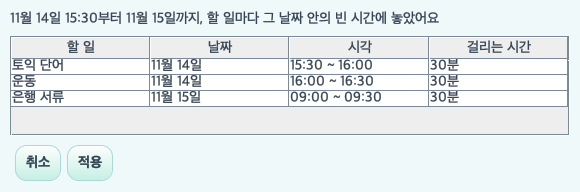
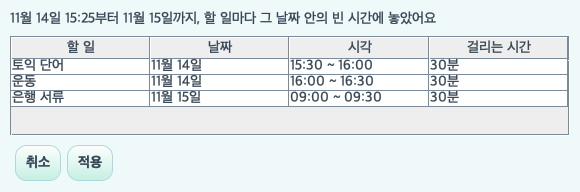
feat(prototype): 시작 시각, 걸리는 시간, 기본 시작 시각, 자동 배치를 5분 단위로(D-38) (#71)

Changed region(s): [[0.1241, 0.0625, 0.7759, 0.125]]

diff --git a/prototype/src/planningpet/proto/TimeEditor.java b/prototype/src/planningpet/proto/TimeEditor.java
@@ -6,7 +6,6 @@ import java.awt.Point;
 import java.time.LocalDate;
 import java.time.LocalDateTime;
 import java.time.LocalTime;
-import java.util.stream.IntStream;
 import javax.swing.BorderFactory;
 import javax.swing.JButton;
 import javax.swing.JComponent;
@@ -15,13 +14,11 @@ import javax.swing.JLabel;
 import javax.swing.JSpinner;
 import javax.swing.KeyStroke;
 import javax.swing.SpinnerListModel;
-import javax.swing.SpinnerNumberModel;
 import javax.swing.SwingUtilities;
 
 /** 시각 고치기 창(05, D-32). 메인 시각 칸 아래에 떠서 시작 시각과 걸리는 시간만 고친다. */
 public final class TimeEditor {
-    final JSpinner start = new JSpinner(new SpinnerListModel(IntStream.range(0, 144)
-            .mapToObj(i -> String.format("%02d:%02d", i / 6, i % 6 * 10)).toList()));
+    final JSpinner start = new JSpinner(new SpinnerListModel(Ui.times()));
     final JSpinner minutes;
     final JLabel error = new JLabel(" ");
     final JButton clear = new JButton("시간 빼기");
@@ -32,7 +29,7 @@ public final class TimeEditor {
     public TimeEditor(Task t, LocalDateTime now) {
         LocalTime from = t.timed() ? t.start : defaultStart(t.date, now);
         start.setValue(from.toString());
-        minutes = new JSpinner(new SpinnerNumberModel(t.minutes, 10, 720, 10));
+        minutes = Ui.minutes(t.minutes);
         error.setForeground(Theme.SUNDAY);
         error.setFont(Theme.font(12));
         panel.setBorder(BorderFactory.createEmptyBorder(12, 14, 12, 14));
@@ -42,20 +39,20 @@ public final class TimeEditor {
         panel.add(Ui.flow(clear, cancel, save), BorderLayout.SOUTH);
     }
 
-    /** 06의 14번. 오늘이면 지금을 10분 단위로 올린 시각과 09:00 중 늦은 것, 다른 날이면 09:00. */
+    /** 06의 14번. 오늘이면 지금을 5분 단위로 올린 시각과 09:00 중 늦은 것(23:55까지), 다른 날이면 09:00. */
     public static LocalTime defaultStart(LocalDate date, LocalDateTime now) {
         if (!date.equals(now.toLocalDate())) {
             return LocalTime.of(9, 0);
         }
         int m = now.getHour() * 60 + now.getMinute() + (now.getSecond() > 0 ? 1 : 0);
-        m = Math.min(Math.max((m + 9) / 10 * 10, 9 * 60), 23 * 60 + 50);
+        m = Math.min(Math.max((m + 4) / 5 * 5, 9 * 60), 23 * 60 + 55);
         return LocalTime.of(m / 60, m % 60);
     }
 
     /** 끝이 24:00을 넘으면 문장, 아니면 null. */
     String check() {
-        if ((int) minutes.getValue() % 10 != 0) {
-            return "10분부터 720분까지, 10분 단위예요";
+        if ((int) minutes.getValue() % 5 != 0) {
+            return "10분부터 720분까지, 5분 단위예요";
         }
         LocalTime s = LocalTime.parse((String) start.getValue());
         return s.getHour() * 60 + s.getMinute() + (int) minutes.getValue() > 24 * 60 ? "하루 안에 끝나야 해요" : null;

diff --git a/prototype/src/planningpet/proto/Planner.java b/prototype/src/planningpet/proto/Planner.java
@@ -30,10 +30,10 @@ public final class Planner {
                 .toList();
     }
 
-    /** 지금을 10분 단위로 올린 시각. 이보다 앞에는 놓지 않는다. */
+    /** 지금을 5분 단위로 올린 시각(D-38). 이보다 앞에는 놓지 않는다. */
     public static LocalDateTime earliest(Store s) {
         LocalDateTime now = s.now.truncatedTo(ChronoUnit.MINUTES).plusMinutes(s.now.getSecond() > 0 ? 1 : 0);
-        return now.plusMinutes((10 - now.getMinute() % 10) % 10);
+        return now.plusMinutes((5 - now.getMinute() % 5) % 5);
     }
 
     public static Placement place(Store s, LocalDate monday) {
@@ -48,7 +48,7 @@ public final class Planner {
                 busy.add(new int[] {from, from + p.task().minutes});
             });
             Placed found = null;
-            for (int m = 9 * 60; m + t.minutes <= 24 * 60 && found == null; m += 10) {
+            for (int m = 9 * 60; m + t.minutes <= 24 * 60 && found == null; m += 5) {
                 int start = m;
                 boolean free = busy.stream().noneMatch(b -> start < b[1] && b[0] < start + t.minutes);
                 if (free && !t.date.atTime(m / 60, m % 60).isBefore(earliest)) {

diff --git a/prototype/src/planningpet/proto/Ui.java b/prototype/src/planningpet/proto/Ui.java
@@ -15,6 +15,25 @@ public final class Ui {
     private Ui() {
     }
 
+    /** 시작 시각 목록. 00:00부터 23:55까지 5분 간격(D-38). */
+    static java.util.List<String> times() {
+        return java.util.stream.IntStream.range(0, 288)
+                .mapToObj(i -> String.format("%02d:%02d", i / 12, i % 12 * 5)).toList();
+    }
+
+    /** 걸리는 시간 칸(D-38). 10분부터 720분, 5분 단위가 아닌 값은 받지 않아 이전 값으로 돌아간다(05). */
+    static javax.swing.JSpinner minutes(int value) {
+        return new javax.swing.JSpinner(new javax.swing.SpinnerNumberModel(value, 10, 720, 5) {
+            @Override
+            public void setValue(Object v) {
+                if (v instanceof Number n && n.intValue() % 5 != 0) {
+                    throw new IllegalArgumentException("5분 단위가 아님");
+                }
+                super.setValue(v);
+            }
+        });
+    }
+
     public static JLabel hint(String text) {
         JLabel l = new JLabel(text);
         l.setForeground(Theme.INK_DIM);
